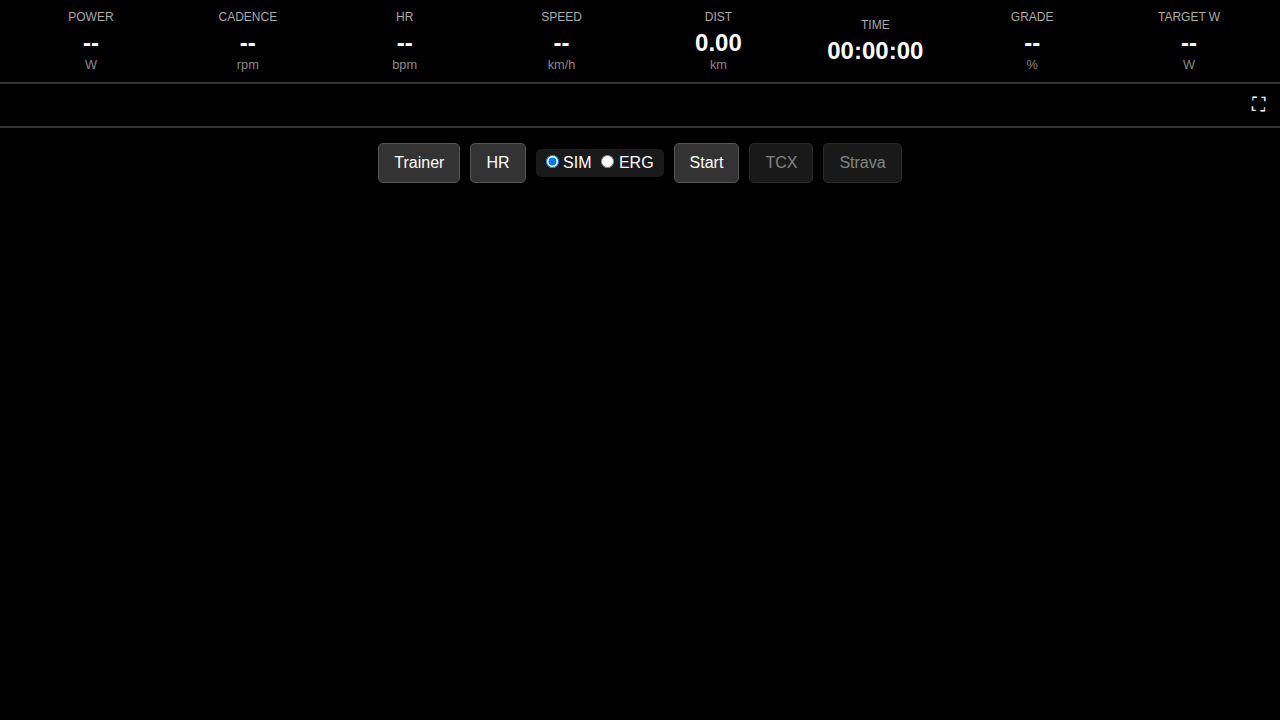
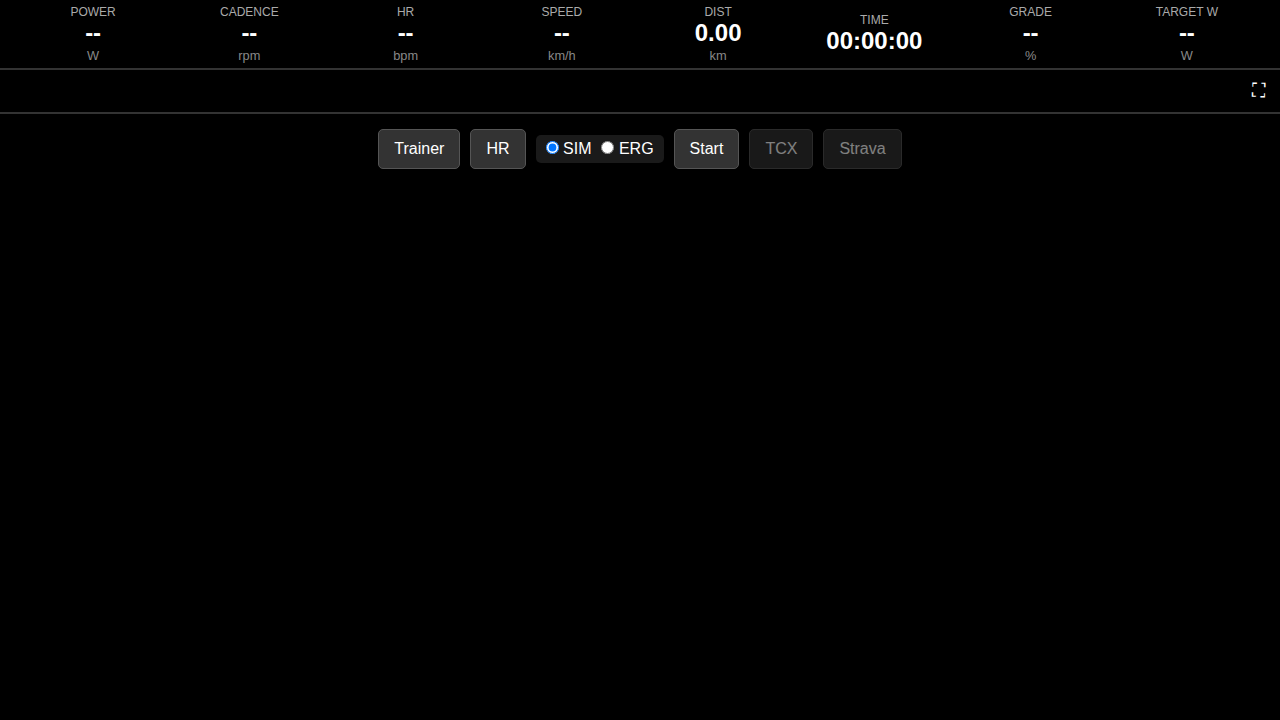
Tighten vertical height of top metrics bar
- Reduce vertical padding on #metrics-bar
- Remove bottom margin from metric labels
- Tighten line height for metric values
- Reduce gap between metrics from 15px to 10px

diff --git a/css/style.css b/css/style.css
@@ -56,7 +56,8 @@ body {
 #metrics-bar {
     display: grid;
     grid-template-columns: repeat(auto-fit, minmax(100px, 1fr));
-    gap: 15px;
+    gap: 10px;
+    padding: 5px 20px; /* Reduced vertical padding */
     border-bottom: 2px solid rgba(255, 255, 255, 0.2);
     text-align: center;
 }
@@ -72,12 +73,13 @@ body {
     font-size: 0.75rem;
     color: #aaa;
     text-transform: uppercase;
-    margin-bottom: 5px;
+    margin-bottom: 0px; /* Removed margin */
 }
 
 .metric .value {
     font-size: 1.5rem;
     font-weight: bold;
+    line-height: 1.2; /* Tighten line height */
 }
 
 .metric .unit {
